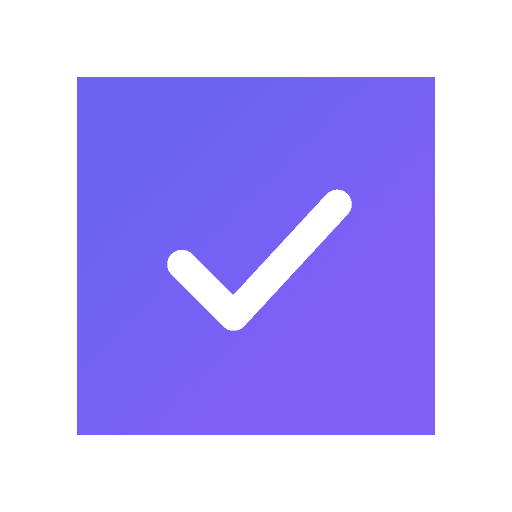
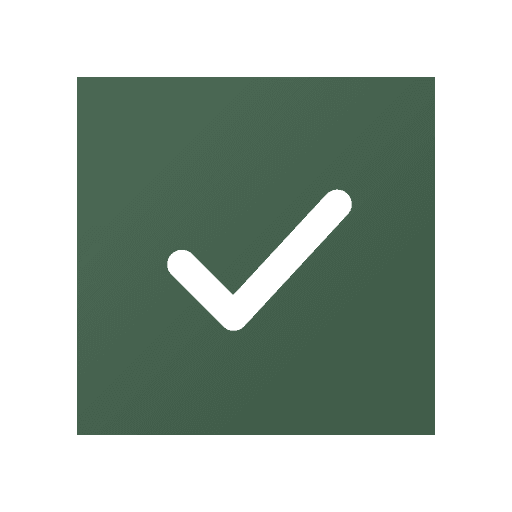
앱 아이콘을 지금 테마 색으로 맞춘다
아이콘 원본의 배경 그라디언트가 예전 테마의 인디고→바이올렛에 멈춰 있어,
매니페스트와 meta theme-color는 초록인데 아이콘만 보라색이었다.
App.css의 --accent / --accent-hover 값으로 바꾸고 전체를 다시 생성했다.

생성기는 결과물을 원본 svg와 같은 폴더에 떨어뜨린다. images 경로가 frontend/
루트를 가리키고 있어서 그대로 돌리면 서빙되지 않는 곳에 아이콘이 생겼다.
원본을 public/ 하나로 두고 경로를 맞춘다.

diff --git a/frontend/pwa-assets.config.js b/frontend/pwa-assets.config.js
@@ -1,9 +1,12 @@
 import { defineConfig, minimal2023Preset } from '@vite-pwa/assets-generator/config';
 
 // pwa-source.svg 하나로 favicon / apple-touch-icon / 192·512 PWA 아이콘 / maskable 아이콘까지
-// 전부 public/ 에 생성한다. 아이콘 배경(그라디언트+체크)은 App.css의 --primary/--primary-dark 색과 맞춤.
+// 전부 만든다. 생성물은 원본 svg와 같은 폴더에 떨어지므로 원본을 public/ 에 둔다 —
+// 경로를 'pwa-source.svg'로 적으면 frontend/ 루트에 생겨서 브라우저에 서빙되지 않는다.
+// 아이콘 배경(그라디언트+체크)은 App.css의 --accent/--accent-hover 색과 맞춘다.
+// 테마 색을 바꾸면 svg를 고치고 `npx pwa-assets-generator`를 다시 돌릴 것.
 export default defineConfig({
   headLinkOptions: { preset: '2023' },
   preset: minimal2023Preset,
-  images: ['pwa-source.svg'],
+  images: ['public/pwa-source.svg'],
 });
